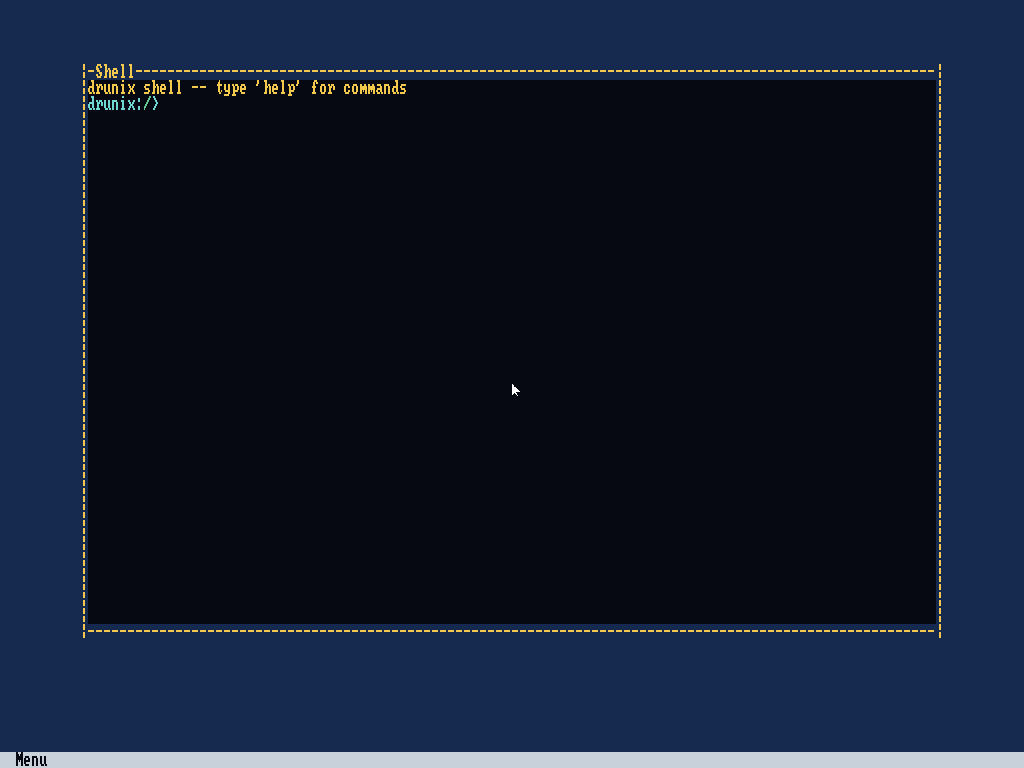
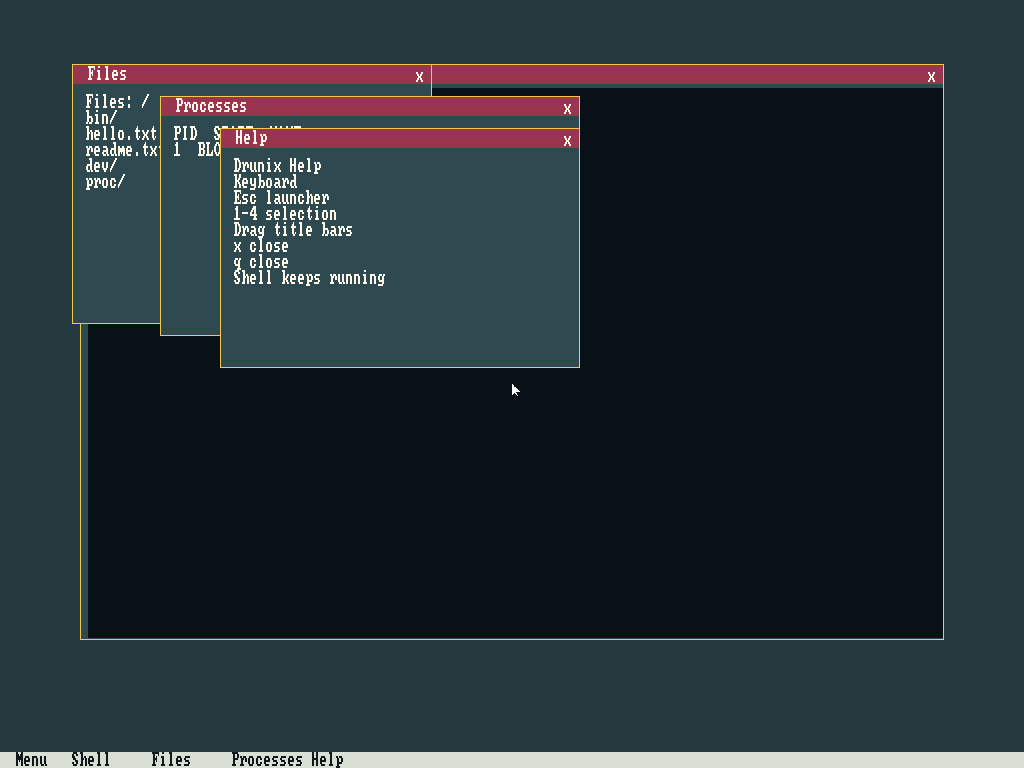
fix: process crash due to kernal stack size

diff --git a/kernel/mm/pmm.c b/kernel/mm/pmm.c
@@ -18,6 +18,41 @@ extern uint32_t _kernel_end;
 static uint8_t bitmap[PMM_MAX_PAGES / 8];
 static uint8_t refcount[PMM_MAX_PAGES];
 
+static int pmm_multiboot_framebuffer_range(const multiboot_info_t *mbi,
+                                           uint32_t *base_out,
+                                           uint32_t *length_out)
+{
+    uint32_t bytes_per_pixel;
+    uint64_t row_bytes;
+    uint64_t last_row_offset;
+    uint64_t length;
+    uint64_t base;
+
+    if (!mbi || !base_out || !length_out)
+        return -1;
+    if ((mbi->flags & MULTIBOOT_FLAG_FRAMEBUFFER) == 0)
+        return -1;
+    base = mbi->framebuffer_addr;
+    if (base > UINT32_MAX)
+        return -1;
+    if (mbi->framebuffer_width == 0 || mbi->framebuffer_height == 0 ||
+        mbi->framebuffer_pitch == 0 || mbi->framebuffer_bpp == 0)
+        return -1;
+
+    bytes_per_pixel = ((uint32_t)mbi->framebuffer_bpp + 7u) / 8u;
+    row_bytes = (uint64_t)mbi->framebuffer_width * bytes_per_pixel;
+    last_row_offset =
+        (uint64_t)(mbi->framebuffer_height - 1u) * mbi->framebuffer_pitch;
+    length = last_row_offset + row_bytes;
+    if (length == 0 || length > UINT32_MAX ||
+        base + length > ((uint64_t)UINT32_MAX + 1u))
+        return -1;
+
+    *base_out = (uint32_t)base;
+    *length_out = (uint32_t)length;
+    return 0;
+}
+
 static void bitmap_set(uint32_t page) {
     bitmap[page / 8] |= (1u << (page % 8));
 }
@@ -78,8 +113,14 @@ void pmm_init(multiboot_info_t *mbi) {
 
     /* ── Re-mark all reserved regions ─────────────────────────────────────── */
 
-    /* Page 0: BIOS IVT + BDA */
-    pmm_mark_used(0x00000000, 0x1000);
+    /*
+     * Reserve the whole first MiB.  GRUB's memory map may describe parts of
+     * conventional memory as usable, but this range also contains firmware
+     * scratch areas and Multiboot data that can still be touched after boot.
+     * User pages must never be allocated here; otherwise normal stack writes
+     * can corrupt executable text placed in low physical memory.
+     */
+    pmm_mark_used(0x00000000, 0x00100000);
 
     /* Kernel image: from _kernel_start (0x100000) to _kernel_end */
     uint32_t kstart = (uint32_t)&_kernel_start;
@@ -91,17 +132,35 @@ void pmm_init(multiboot_info_t *mbi) {
     pmm_mark_used(0x00011000, 0x21000);
 
     /* Kernel heap (0x32000–0x8FFFF) and kernel stack area (up to 0x90000).
-     * Also cover 0x90000–0xFFFFF to skip the rest of the first megabyte. */
+     * Kept explicit for documentation even though the first-MiB reservation
+     * above already pins these pages. */
     pmm_mark_used(0x00032000, 0x000CE000);  /* 0x32000 – 0xFFFFF */
 
     /* VGA/ROM hole */
     pmm_mark_used(0x000A0000, 0x20000);
+
+    {
+        uint32_t fb_base;
+        uint32_t fb_len;
+
+        if (pmm_multiboot_framebuffer_range(mbi, &fb_base, &fb_len) == 0)
+            pmm_mark_used(fb_base, fb_len);
+    }
 
     for (uint32_t page = 0; page < PMM_MAX_PAGES; page++) {
         if (bitmap_test(page))
             refcount[page] = 0xFF;
     }
 }
+
+#ifdef KTEST_ENABLED
+int pmm_multiboot_framebuffer_range_for_test(const multiboot_info_t *mbi,
+                                             uint32_t *base_out,
+                                             uint32_t *length_out)
+{
+    return pmm_multiboot_framebuffer_range(mbi, base_out, length_out);
+}
+#endif
 
 uint32_t pmm_alloc_page(void) {
     for (uint32_t i = 0; i < PMM_MAX_PAGES / 8; i++) {

diff --git a/kernel/test/test_desktop.c b/kernel/test/test_desktop.c
@@ -1056,6 +1056,42 @@ static void test_desktop_taskbar_click_focuses_processes_window(ktest_case_t *tc
     desktop_test_destroy(&desktop);
 }
 
+static void test_desktop_taskbar_shell_refocus_forwards_keys(ktest_case_t *tc)
+{
+    desktop_state_t desktop;
+    gui_display_t display;
+    desktop_pointer_event_t ev;
+
+    gui_display_init(&display, desktop_cells, 80, 25, 0x0f);
+    desktop_init(&desktop, &display);
+    desktop_open_shell_window(&desktop);
+
+    KTEST_EXPECT_EQ(tc, desktop_handle_key(&desktop, 27),
+                    DESKTOP_KEY_CONSUMED);
+    desktop.launcher_selection = DESKTOP_APP_FILES;
+    KTEST_EXPECT_EQ(tc, desktop_handle_key(&desktop, '\n'),
+                    DESKTOP_KEY_CONSUMED);
+    KTEST_EXPECT_EQ(tc, desktop_focused_app_for_test(&desktop),
+                    DESKTOP_APP_FILES);
+    KTEST_EXPECT_EQ(tc, desktop_handle_key(&desktop, 'a'),
+                    DESKTOP_KEY_CONSUMED);
+
+    k_memset(&ev, 0, sizeof(ev));
+    ev.left_down = 1;
+    ev.x = 8;
+    ev.y = desktop.taskbar.y;
+    ev.pixel_x = ev.x * (int)GUI_FONT_W;
+    ev.pixel_y = ev.y * (int)GUI_FONT_H;
+    desktop_handle_pointer(&desktop, &ev);
+
+    KTEST_EXPECT_EQ(tc, desktop_focused_app_for_test(&desktop),
+                    DESKTOP_APP_SHELL);
+    KTEST_EXPECT_EQ(tc, desktop_handle_key(&desktop, 'a'),
+                    DESKTOP_KEY_FORWARD);
+
+    desktop_test_destroy(&desktop);
+}
+
 static void test_desktop_text_taskbar_renders_open_window_labels(ktest_case_t *tc)
 {
     gui_display_t display;
@@ -1936,6 +1972,17 @@ static void test_mouse_stream_keeps_response_like_bytes_inside_packet(ktest_case
     KTEST_EXPECT_EQ(tc, packet.buttons, 0x0B);
     KTEST_EXPECT_EQ(tc, packet.dx, -6);
     KTEST_EXPECT_EQ(tc, packet.dy, -86);
+}
+
+static void test_mouse_irq_drains_initial_packet_without_aux_status(
+    ktest_case_t *tc)
+{
+    KTEST_EXPECT_EQ(tc, mouse_irq_should_read_byte_for_test(0x01, 0), 1);
+    KTEST_EXPECT_EQ(tc, mouse_irq_should_read_byte_for_test(0x01, 1), 1);
+    KTEST_EXPECT_EQ(tc, mouse_irq_should_read_byte_for_test(0x01, 2), 1);
+    KTEST_EXPECT_EQ(tc, mouse_irq_should_read_byte_for_test(0x01, 3), 0);
+    KTEST_EXPECT_EQ(tc, mouse_irq_should_read_byte_for_test(0x21, 3), 1);
+    KTEST_EXPECT_EQ(tc, mouse_irq_should_read_byte_for_test(0x00, 0), 0);
 }
 
 static void test_mouse_framebuffer_motion_uses_build_configured_scale(
@@ -3652,6 +3699,7 @@ static ktest_case_t desktop_cases[] = {
     KTEST_CASE(test_desktop_framebuffer_launcher_click_uses_visible_item_rows),
     KTEST_CASE(test_desktop_text_launcher_keeps_bottom_border_visible),
     KTEST_CASE(test_desktop_taskbar_click_focuses_processes_window),
+    KTEST_CASE(test_desktop_taskbar_shell_refocus_forwards_keys),
     KTEST_CASE(test_desktop_text_taskbar_renders_open_window_labels),
     KTEST_CASE(test_desktop_shell_open_matches_rendered_window_rect),
     KTEST_CASE(test_desktop_shell_output_still_routes_after_mini_apps_open),
@@ -3682,6 +3730,7 @@ static ktest_case_t desktop_cases[] = {
     KTEST_CASE(test_mouse_stream_delivers_response_like_packet_headers),
     KTEST_CASE(test_mouse_stream_delivers_overflow_packets),
     KTEST_CASE(test_mouse_stream_keeps_response_like_bytes_inside_packet),
+    KTEST_CASE(test_mouse_irq_drains_initial_packet_without_aux_status),
     KTEST_CASE(test_mouse_framebuffer_motion_uses_build_configured_scale),
     KTEST_CASE(test_mouse_text_motion_ignores_framebuffer_speed),
     KTEST_CASE(test_mouse_overflow_packet_keeps_framebuffer_cursor_visible),

diff --git a/kernel/test/test_pmm.c b/kernel/test/test_pmm.c
@@ -6,6 +6,7 @@
 #include "ktest.h"
 #include "pmm.h"
 #include "paging.h"
+#include "kstring.h"
 
 /*
  * PMM unit tests.
@@ -109,14 +110,68 @@ static void test_reserved_pages_are_pinned(ktest_case_t *tc) {
     uint32_t before = pmm_free_page_count();
 
     KTEST_EXPECT_EQ(tc, pmm_refcount(0), 255u);
+    KTEST_EXPECT_EQ(tc, pmm_refcount(0x3000u), 255u);
     KTEST_EXPECT_EQ(tc, pmm_refcount(PAGE_DIR_ADDR), 255u);
 
     pmm_decref(0);
+    pmm_decref(0x3000u);
     pmm_decref(PAGE_DIR_ADDR);
 
     KTEST_EXPECT_EQ(tc, pmm_refcount(0), 255u);
+    KTEST_EXPECT_EQ(tc, pmm_refcount(0x3000u), 255u);
     KTEST_EXPECT_EQ(tc, pmm_refcount(PAGE_DIR_ADDR), 255u);
     KTEST_EXPECT_EQ(tc, pmm_free_page_count(), before);
+}
+
+static void test_alloc_never_returns_low_conventional_memory(ktest_case_t *tc) {
+    uint32_t p = pmm_alloc_page();
+    KTEST_ASSERT_NOT_NULL(tc, p);
+    KTEST_EXPECT_GE(tc, p, 0x00100000u);
+    pmm_free_page(p);
+}
+
+static void test_multiboot_framebuffer_reservation_covers_visible_rows(
+    ktest_case_t *tc)
+{
+    multiboot_info_t mbi;
+    uint32_t base = 0;
+    uint32_t length = 0;
+
+    k_memset(&mbi, 0, sizeof(mbi));
+    mbi.flags = MULTIBOOT_FLAG_FRAMEBUFFER;
+    mbi.framebuffer_addr = 0x0046B000u;
+    mbi.framebuffer_width = 1024;
+    mbi.framebuffer_height = 768;
+    mbi.framebuffer_pitch = 4096;
+    mbi.framebuffer_bpp = 32;
+
+    KTEST_EXPECT_EQ(tc,
+                    pmm_multiboot_framebuffer_range_for_test(&mbi, &base,
+                                                             &length),
+                    0);
+    KTEST_EXPECT_EQ(tc, base, 0x0046B000u);
+    KTEST_EXPECT_EQ(tc, length, 1024u * 768u * 4u);
+}
+
+static void test_multiboot_framebuffer_reservation_rejects_wrap(
+    ktest_case_t *tc)
+{
+    multiboot_info_t mbi;
+    uint32_t base = 0;
+    uint32_t length = 0;
+
+    k_memset(&mbi, 0, sizeof(mbi));
+    mbi.flags = MULTIBOOT_FLAG_FRAMEBUFFER;
+    mbi.framebuffer_addr = 0xFFFFF000u;
+    mbi.framebuffer_width = 1024;
+    mbi.framebuffer_height = 2;
+    mbi.framebuffer_pitch = 4096;
+    mbi.framebuffer_bpp = 32;
+
+    KTEST_EXPECT_EQ(tc,
+                    pmm_multiboot_framebuffer_range_for_test(&mbi, &base,
+                                                             &length),
+                    -1);
 }
 
 /* ── Suite ──────────────────────────────────────────────────────────────── */
@@ -131,6 +186,9 @@ static ktest_case_t cases[] = {
     KTEST_CASE(test_refcount_tracks_shared_page),
     KTEST_CASE(test_refcount_saturates_at_255),
     KTEST_CASE(test_reserved_pages_are_pinned),
+    KTEST_CASE(test_alloc_never_returns_low_conventional_memory),
+    KTEST_CASE(test_multiboot_framebuffer_reservation_covers_visible_rows),
+    KTEST_CASE(test_multiboot_framebuffer_reservation_rejects_wrap),
 };
 
 static ktest_suite_t suite = KTEST_SUITE("pmm", cases);

diff --git a/kernel/gui/desktop.c b/kernel/gui/desktop.c
@@ -2,6 +2,7 @@
 #include "desktop_apps.h"
 #include "kheap.h"
 #include "kstring.h"
+#include "paging.h"
 #include <limits.h>
 
 #define DESKTOP_ATTR_BACKGROUND 0x1f
@@ -21,6 +22,20 @@
 
 static desktop_state_t *g_desktop = 0;
 static int g_framebuffer_present_depth = 0;
+static uint32_t g_framebuffer_present_saved_cr3 = 0;
+
+static uint32_t desktop_read_cr3(void)
+{
+    uint32_t cr3;
+
+    __asm__ volatile ("mov %%cr3, %0" : "=r"(cr3));
+    return cr3;
+}
+
+static void desktop_write_cr3(uint32_t cr3)
+{
+    __asm__ volatile ("mov %0, %%cr3" :: "r"(cr3) : "memory");
+}
 
 /*
  * Framebuffer present critical section.
@@ -70,6 +85,11 @@ static uint32_t desktop_framebuffer_present_begin(void)
                       : "=r"(flags)
                       :
                       : "memory");
+    if (g_framebuffer_present_depth == 0) {
+        g_framebuffer_present_saved_cr3 = desktop_read_cr3();
+        if (g_framebuffer_present_saved_cr3 != PAGE_DIR_ADDR)
+            desktop_write_cr3(PAGE_DIR_ADDR);
+    }
     g_framebuffer_present_depth++;
     return flags;
 }
@@ -78,6 +98,11 @@ static void desktop_framebuffer_present_end(uint32_t flags)
 {
     if (g_framebuffer_present_depth > 0)
         g_framebuffer_present_depth--;
+    if (g_framebuffer_present_depth == 0 &&
+        g_framebuffer_present_saved_cr3 != 0 &&
+        g_framebuffer_present_saved_cr3 != PAGE_DIR_ADDR) {
+        desktop_write_cr3(g_framebuffer_present_saved_cr3);
+    }
     if (flags & (1u << 9))
         __asm__ volatile ("sti" ::: "memory");
 }

diff --git a/kernel/drivers/mouse.c b/kernel/drivers/mouse.c
@@ -235,6 +235,15 @@ int mouse_motion_scale_for_test(desktop_state_t *desktop)
  */
 #define PS2_STATUS_AUX_BUFFER 0x20
 
+static int mouse_irq_should_read_byte(uint8_t status, int bytes_read)
+{
+    if ((status & PS2_STATUS_OUT_FULL) == 0)
+        return 0;
+    if (bytes_read < 3)
+        return 1;
+    return (status & PS2_STATUS_AUX_BUFFER) != 0;
+}
+
 static void mouse_handler(void)
 {
     desktop_pointer_event_t ev;
@@ -245,6 +254,7 @@ static void mouse_handler(void)
     uint8_t status;
     int have_pending = 0;
     int prev_left_down = -1;
+    int bytes_read = 0;
 
     desktop = desktop_global();
 
@@ -262,11 +272,11 @@ static void mouse_handler(void)
      */
     for (;;) {
         status = port_byte_in(PS2_STATUS_PORT);
-        if ((status & (PS2_STATUS_OUT_FULL | PS2_STATUS_AUX_BUFFER)) !=
-            (PS2_STATUS_OUT_FULL | PS2_STATUS_AUX_BUFFER))
+        if (!mouse_irq_should_read_byte(status, bytes_read))
             break;
 
         data = port_byte_in(PS2_DATA_PORT);
+        bytes_read++;
         if (mouse_stream_consume(&g_stream, data, &packet) <= 0)
             continue;
         if (mouse_decode_packet(&packet, &ev) != 0)
@@ -295,6 +305,13 @@ static void mouse_handler(void)
     if (have_pending && desktop_is_active())
         desktop_handle_pointer(desktop, &pending_ev);
 }
+
+#ifdef KTEST_ENABLED
+int mouse_irq_should_read_byte_for_test(uint8_t status, int bytes_read)
+{
+    return mouse_irq_should_read_byte(status, bytes_read);
+}
+#endif
 
 int mouse_init(void)
 {

diff --git a/kernel/mm/pmm.h b/kernel/mm/pmm.h
@@ -72,4 +72,10 @@ void     pmm_free_page(uint32_t phys_addr);
 uint8_t  pmm_refcount(uint32_t phys_addr);
 uint32_t pmm_free_page_count(void);
 
+#ifdef KTEST_ENABLED
+int pmm_multiboot_framebuffer_range_for_test(const multiboot_info_t *mbi,
+                                             uint32_t *base_out,
+                                             uint32_t *length_out);
+#endif
+
 #endif

diff --git a/kernel/drivers/mouse.h b/kernel/drivers/mouse.h
@@ -26,6 +26,7 @@ void mouse_pointer_reset_for_test(int pixel_x, int pixel_y);
 void mouse_update_pointer_for_test(desktop_state_t *desktop,
                                    desktop_pointer_event_t *ev);
 int mouse_motion_scale_for_test(desktop_state_t *desktop);
+int mouse_irq_should_read_byte_for_test(uint8_t status, int bytes_read);
 #endif
 
 #endif

diff --git a/README.md b/README.md
@@ -6,7 +6,7 @@ Drunix is a 32-bit x86 hobby operating system that boots through GRUB2 with the 
 
 The normal boot path asks GRUB for a 1024x768x32 linear framebuffer and starts a simple GUI desktop. The boot shell is opened as the main desktop app inside that GUI shell, with keyboard input, PS/2 mouse pointer support, taskbar/menu launching, framebuffer text rendering, double-buffered flicker-free compositing with an overlay mouse cursor, and a VGA text-mode fallback when a suitable framebuffer is unavailable. The disk image includes a small userland with the shell and basic utilities.
 
-![Drunix desktop running in QEMU](docs/drunix-desktop.png)
+![Drunix desktop running in QEMU with Files, Processes, Help, and Shell windows open](docs/drunix-desktop.png)
 
 ## Dependencies
 
